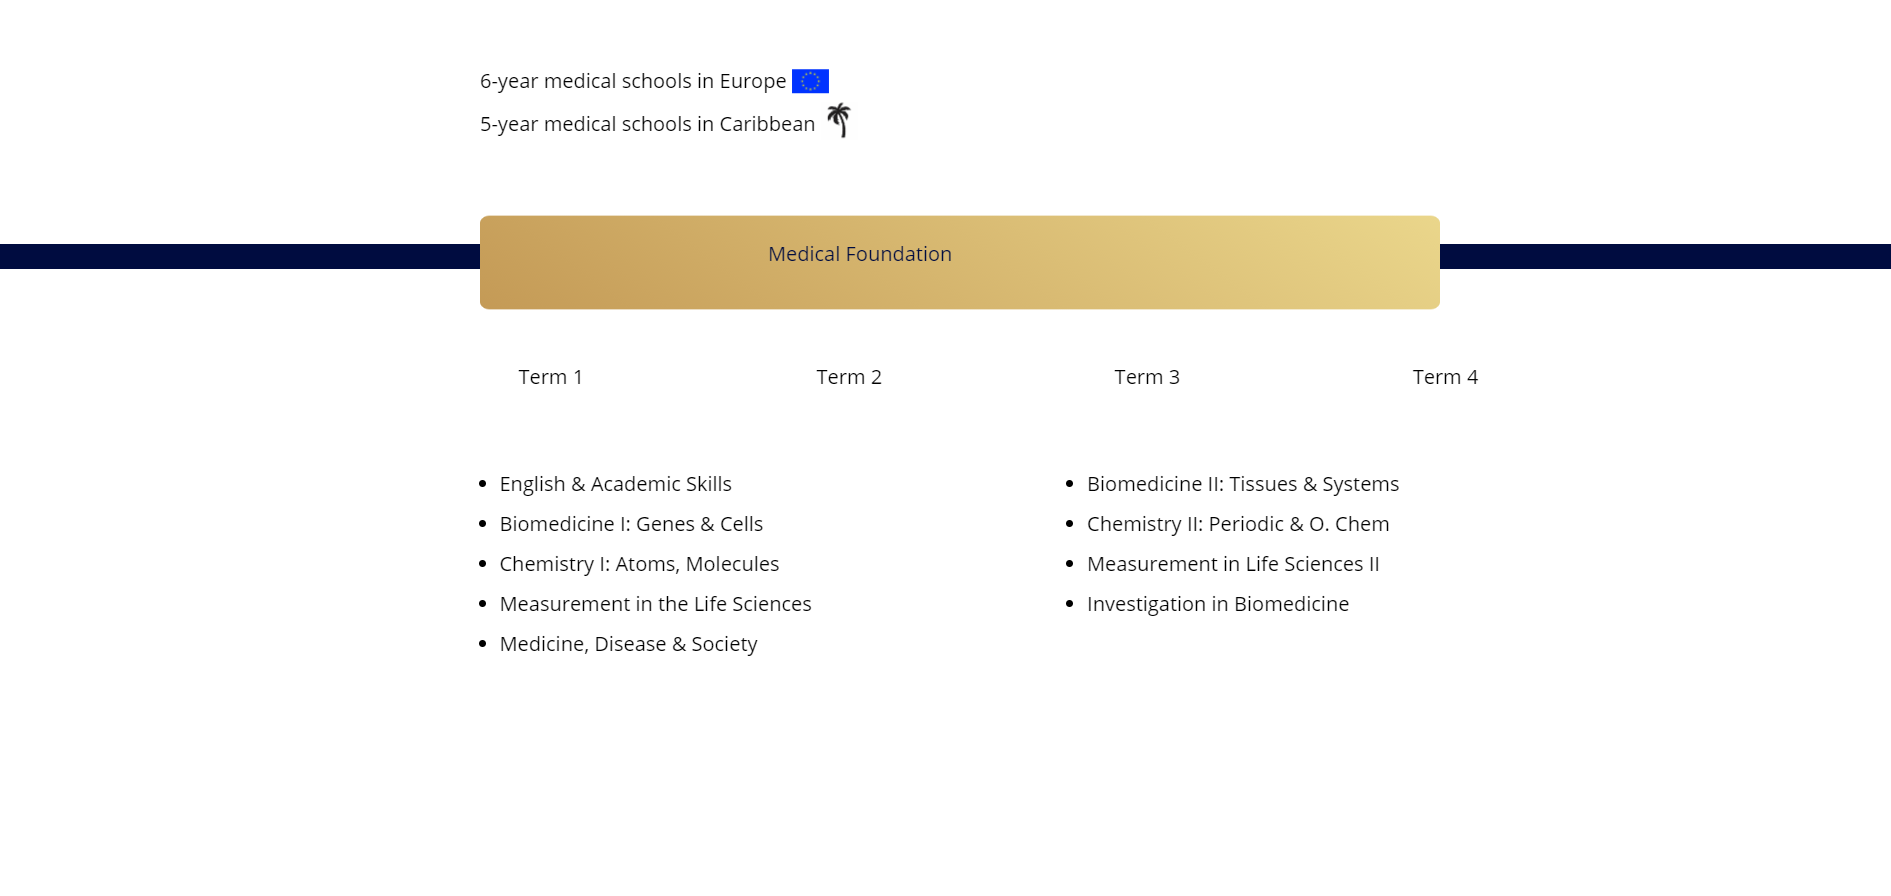
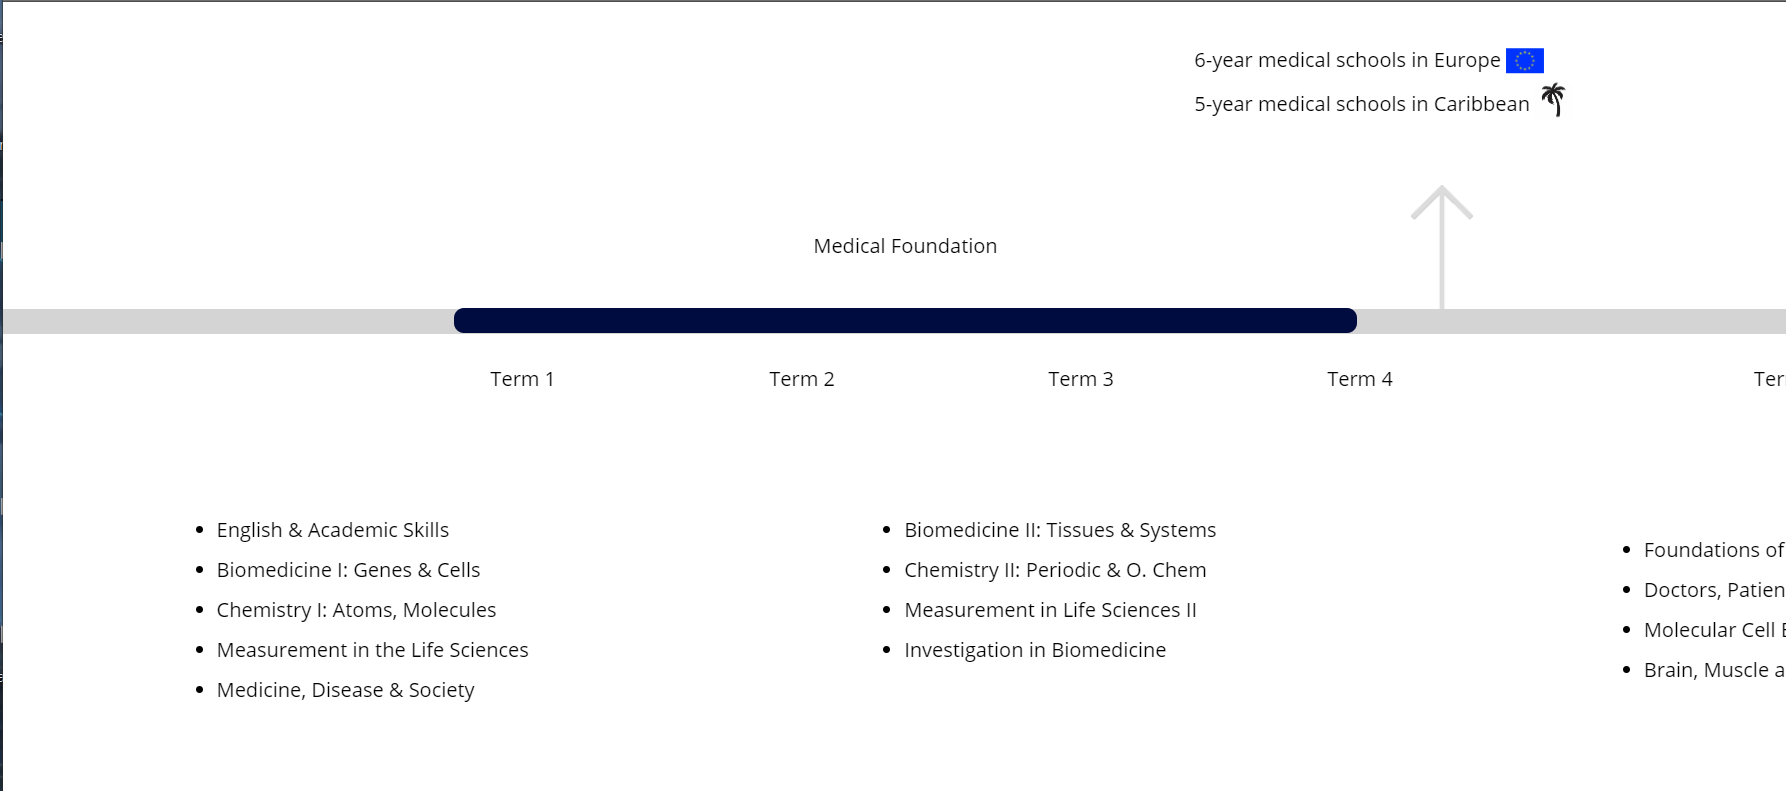
Made the scroll continue when finished scrolling horizontally

diff --git a/index.html b/index.html
@@ -21,16 +21,19 @@
       ></div>
       -->
 
-      <div class="fixed-box"></div>
       <div
-        class="names"
-        data-0="transform:translateX(0%)"
-        data-1000="transform: translateX(-60%) "
+        class="fixed-box"
+        data-0="transform:translate(0%, 3150%)"
+        data-1000="transform:translate(0%, 0%)"
+        data-2000="transform:translate(0%, 0%)"
+        data-3000="transform:translate(0%, -3150%)"
       ></div>
       <div
         class="year-list"
-        data-0="transform:translateX(0%)"
-        data-1000="transform: translateX(-235%) "
+        data-0="transform:translate(0%, 200%)"
+        data-1000="transform:translate(0%, 0%)"
+        data-2000="transform:translate(-235%, 0%)"
+        data-3000="transform:translate(-235%, -200%)"
       >
         <ul class="list list-1">
           <li>
@@ -62,8 +65,10 @@
 
       <div
         class="container"
-        data-0="transform:translateX(0%)"
-        data-1000="transform:translateX(-145%)"
+        data-0="transform:translate(0%, 100%)"
+        data-1000="transform:translate(0%, 0%)"
+        data-2000="transform:translate(-145%, 0%)"
+        data-3000="transform:translate(-145%, -100%)"
       >
         <div class="line"></div>
         <div class="box box-1">Medical Foundation</div>

diff --git a/styles.css b/styles.css
@@ -8,8 +8,6 @@
 }
 
 .horizontal {
-  position: relative;
-  min-height: 800px;
 }
 
 /*
@@ -172,6 +170,7 @@
   top: 2rem;
   left: 15vw;
   width: 60vw;
+  height: 20rem;
   justify-content: space-between;
 }
 
@@ -224,7 +223,7 @@
 
 .arrow-3 {
   top: 13rem;
-  left: 217vw;
+  left: 147vw;
   transform: rotate(-180deg);
 }
 
@@ -255,7 +254,7 @@
   }
 
   .list-3 {
-    left: 145vw;
+    left: 100vw;
     top: 22rem;
   }
 }
@@ -287,8 +286,8 @@
   }
 
   .list-3 {
-    left: 155vw;
-    top: 20rem;
+    left: 115vw;
+    top: 22rem;
   }
 }
 
@@ -320,7 +319,7 @@
     list-style-type: none;
     position: fixed;
     top: 22rem;
-    left: 175vw;
+    left: 115vw;
   }
 
   .logo {
@@ -353,8 +352,8 @@
   .list-3 {
     list-style-type: none;
     position: fixed;
-    top: 19rem;
-    left: 170vw;
+    top: 21rem;
+    left: 115vw;
   }
 
   .logo {
@@ -363,6 +362,7 @@
   }
 }
 
-/* Extra large devices (large laptops and desktops, 1200px and up) */
-@media only screen and (min-width: 1200px) {
+p {
+  padding-top: 10rem;
+  background-color: white;
 }
